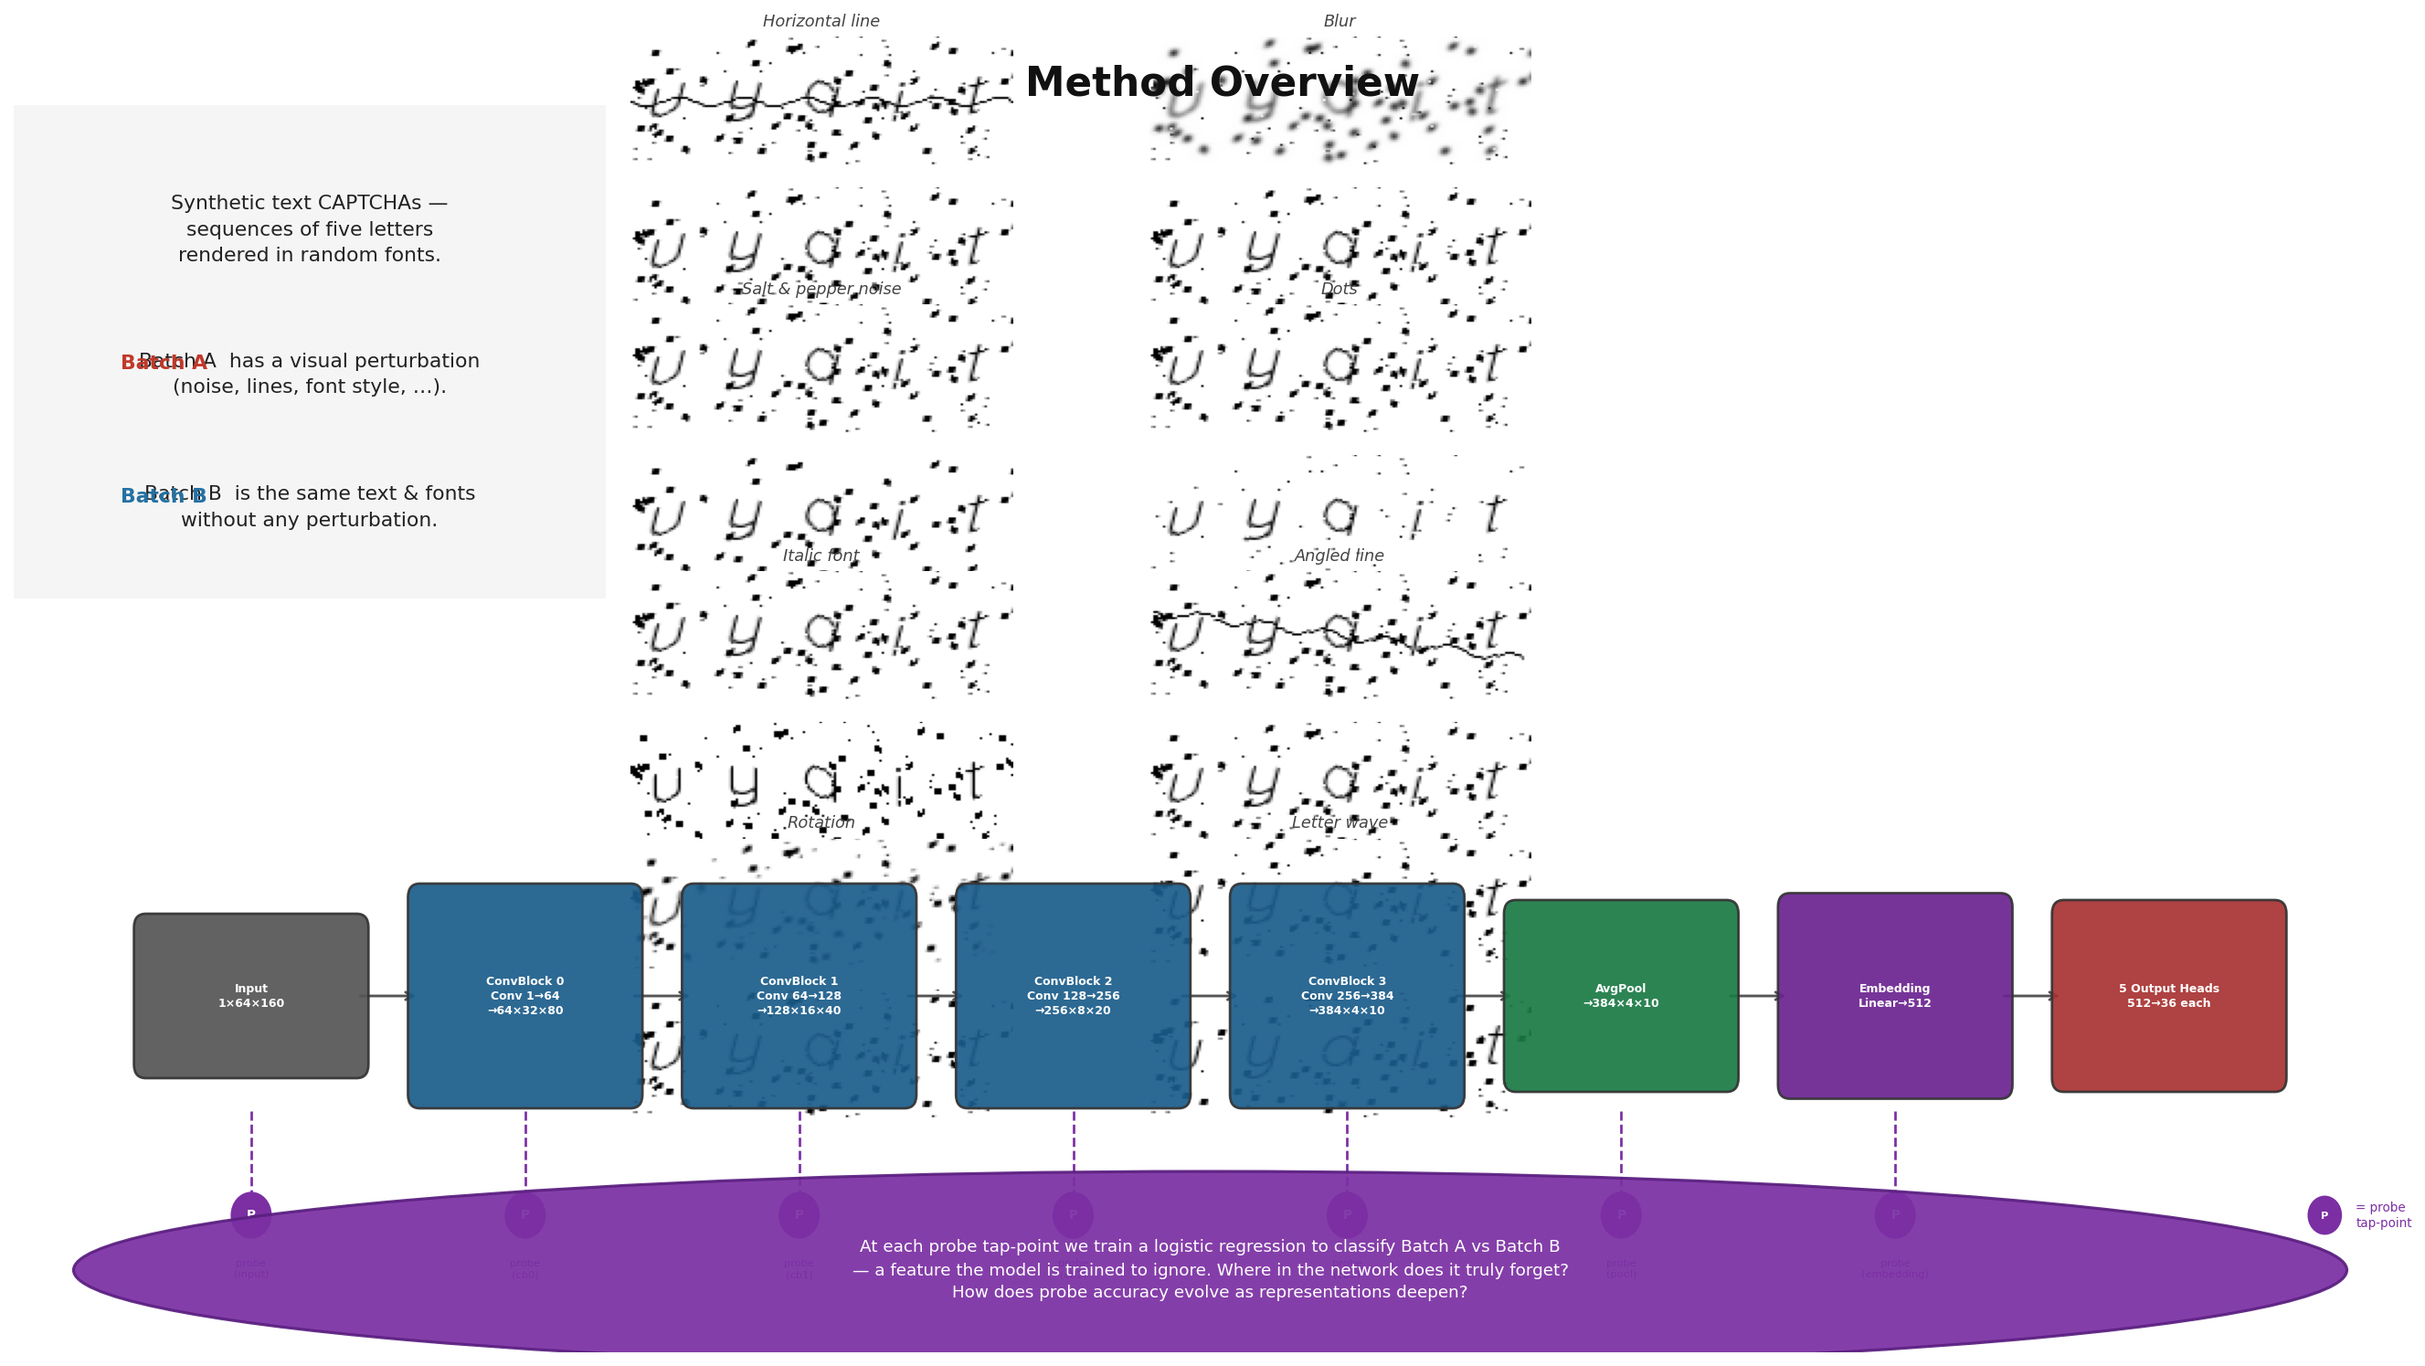
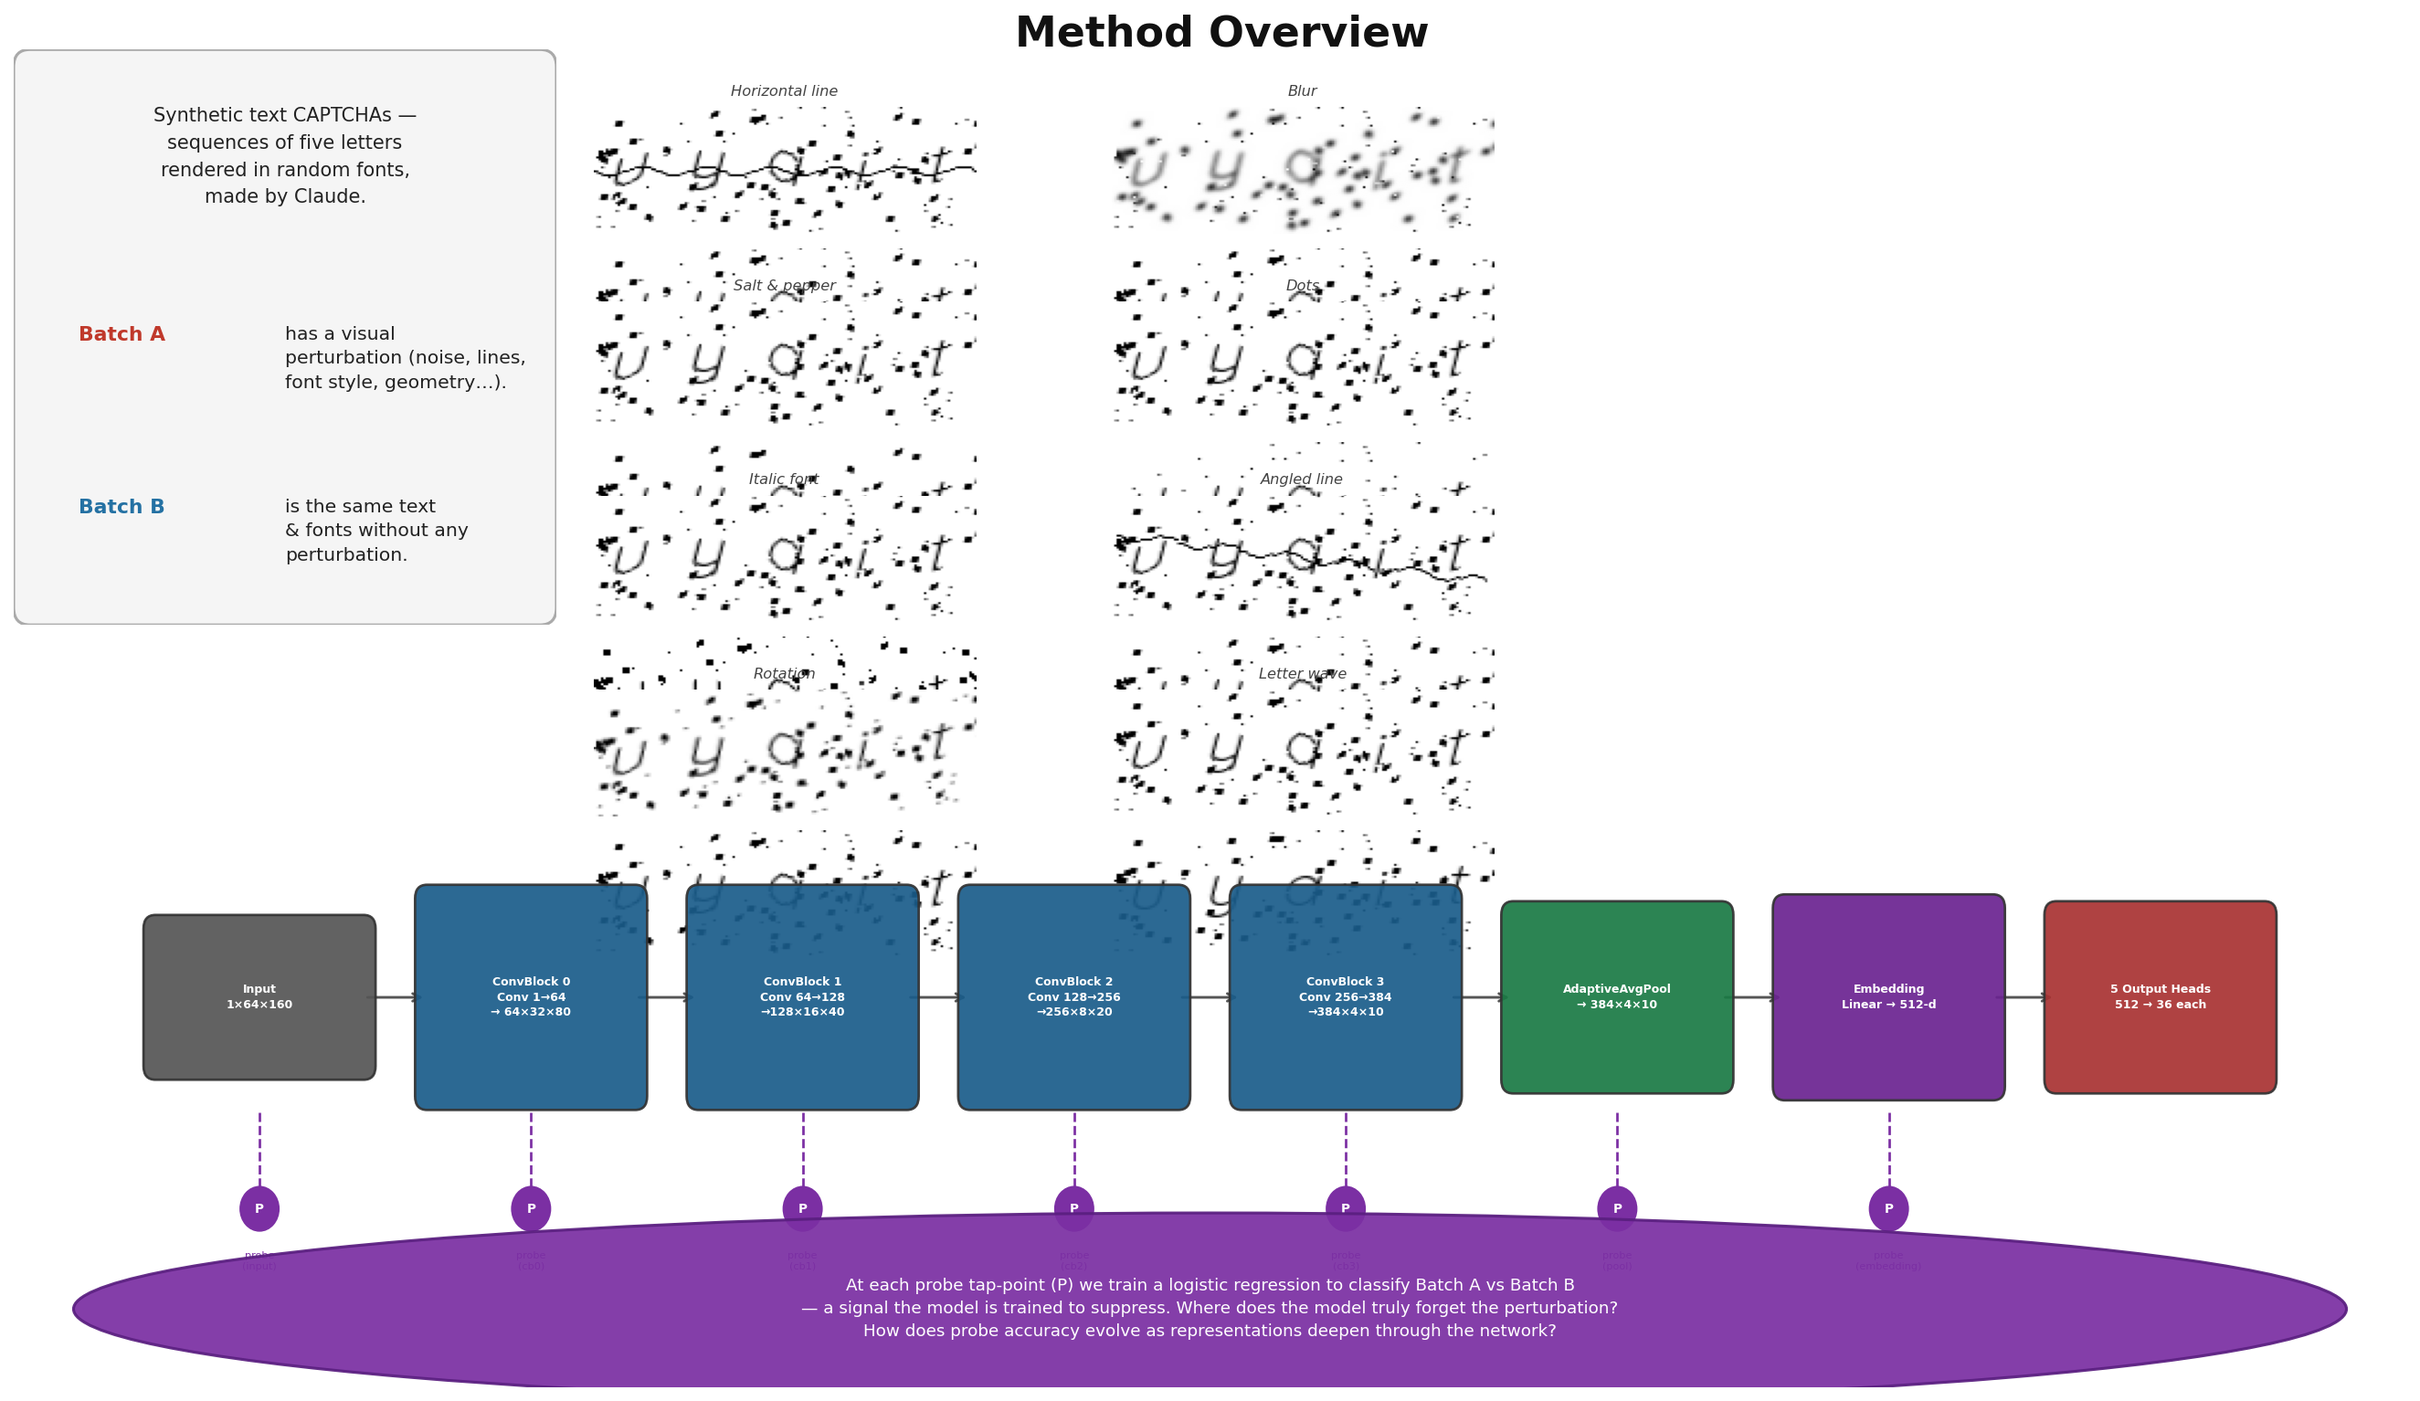
auto-commit

diff --git a/probe/plot_overview.py b/probe/plot_overview.py
@@ -4,12 +4,37 @@ from __future__ import annotations
 from pathlib import Path
 
 
-def plot_method_overview(
-    data_dir: Path,
-    output_path: Path,
-) -> None:
+# Perturbation examples to display: (experiment_dir, display_label)
+_EXAMPLES = [
+    ("easy_line",   "Horizontal line"),
+    ("salt_pepper", "Salt & pepper"),
+    ("italic",      "Italic font"),
+    ("rotation",    "Rotation"),
+    ("blur",        "Blur"),
+    ("dots",        "Dots"),
+    ("hard_line",   "Angled line"),
+    ("wave",        "Letter wave"),
+]
+
+# CaptchaCNN pipeline definition
+_PIPELINE = [
+    # (key, hex-colour, label, box_height, has_probe)
+    ("input",        "#555555", "Input\n1×64×160",                       0.50, True),
+    ("conv_block_0", "#1a5c8a", "ConvBlock 0\nConv 1→64\n→ 64×32×80",   0.72, True),
+    ("conv_block_1", "#1a5c8a", "ConvBlock 1\nConv 64→128\n→128×16×40", 0.72, True),
+    ("conv_block_2", "#1a5c8a", "ConvBlock 2\nConv 128→256\n→256×8×20", 0.72, True),
+    ("conv_block_3", "#1a5c8a", "ConvBlock 3\nConv 256→384\n→384×4×10", 0.72, True),
+    ("pool",         "#1a7a44", "AdaptiveAvgPool\n→ 384×4×10",           0.60, True),
+    ("embedding",    "#6a2390", "Embedding\nLinear → 512-d",             0.65, True),
+    ("heads",        "#a83232", "5 Output Heads\n512 → 36 each",         0.60, False),
+]
+
+PROBE_COL = "#7b2fa3"
+
+
+def plot_method_overview(data_dir: Path, output_path: Path) -> None:
     import matplotlib.pyplot as plt
-    from matplotlib.patches import FancyBboxPatch, Ellipse, FancyArrowPatch
+    from matplotlib.patches import FancyBboxPatch, Ellipse
     from matplotlib.image import imread
 
     fig = plt.figure(figsize=(18, 10.5), facecolor="white")
@@ -19,140 +44,124 @@ def plot_method_overview(
              fontsize=22, fontweight="bold", color="#111")
 
     # ══════════════════════════════════════════════════════════════════════════
-    # TOP-LEFT: concept text box
+    # LEFT: concept text box
     # ══════════════════════════════════════════════════════════════════════════
-    ax_txt = fig.add_axes([0.01, 0.56, 0.22, 0.40])
+    # occupies [0.01, 0.47, 0.20, 0.50]
+    ax_txt = fig.add_axes([0.01, 0.47, 0.20, 0.50])
     ax_txt.set_xlim(0, 1); ax_txt.set_ylim(0, 1); ax_txt.axis("off")
     ax_txt.add_patch(FancyBboxPatch((0.03, 0.03), 0.94, 0.94,
-        boxstyle="round,pad=0.03", facecolor="#f5f5f5", edgecolor="#aaa", lw=1.5))
+        boxstyle="round,pad=0.03", facecolor="#f6f6f6", edgecolor="#bbb", lw=1.5))
 
-    ax_txt.text(0.5, 0.90,
+    # preamble
+    ax_txt.text(0.5, 0.94,
                 "Synthetic text CAPTCHAs —\n"
                 "sequences of five letters\n"
-                "rendered in random fonts,\n"
-                "made by Claude.",
-                ha="center", va="top", fontsize=10, color="#222", linespacing=1.6)
+                "in random fonts, made by Claude.",
+                ha="center", va="top", fontsize=10, color="#222", linespacing=1.6,
+                transform=ax_txt.transAxes)
 
-    # Batch A line (coloured label inline)
-    ax_txt.text(0.12, 0.52, "Batch A", ha="left", va="top",
-                fontsize=10.5, fontweight="bold", color="#c0392b")
-    ax_txt.text(0.50, 0.52,
-                "has a visual\nperturbation (noise, lines,\nfont style, geometry…).",
-                ha="left", va="top", fontsize=9.8, color="#222", linespacing=1.5)
+    # Batch A description
+    ax_txt.text(0.08, 0.57, "Batch A", ha="left", va="top", fontsize=10.5,
+                fontweight="bold", color="#c0392b", transform=ax_txt.transAxes)
+    ax_txt.text(0.08, 0.48,
+                "has a visual perturbation:\nnoise, crossing lines,\nfont style, geometry…",
+                ha="left", va="top", fontsize=9.5, color="#444", linespacing=1.5,
+                transform=ax_txt.transAxes)
 
-    # Batch B line
-    ax_txt.text(0.12, 0.22, "Batch B", ha="left", va="top",
-                fontsize=10.5, fontweight="bold", color="#2471a3")
-    ax_txt.text(0.50, 0.22,
-                "is the same text\n& fonts without any\nperturbation.",
-                ha="left", va="top", fontsize=9.8, color="#222", linespacing=1.5)
+    # divider
+    ax_txt.axhline(0.33, xmin=0.08, xmax=0.92, color="#ccc", lw=1.0)
+
+    # Batch B description
+    ax_txt.text(0.08, 0.30, "Batch B", ha="left", va="top", fontsize=10.5,
+                fontweight="bold", color="#2471a3", transform=ax_txt.transAxes)
+    ax_txt.text(0.08, 0.21,
+                "same letters & fonts,\nno perturbation.",
+                ha="left", va="top", fontsize=9.5, color="#444", linespacing=1.5,
+                transform=ax_txt.transAxes)
 
     # ══════════════════════════════════════════════════════════════════════════
-    # EXAMPLE PAIRS — two columns of 4 perturbation types
+    # EXAMPLE GRID: 4 cols × 2 rows (8 perturbation types)
+    # Layout in figure coords: left=0.225, right~=0.98
     # ══════════════════════════════════════════════════════════════════════════
-    COLUMNS = [
-        [
-            ("easy_line",   "Horizontal line"),
-            ("salt_pepper", "Salt & pepper"),
-            ("italic",      "Italic font"),
-            ("rotation",    "Rotation"),
-        ],
-        [
-            ("blur",      "Blur"),
-            ("dots",      "Dots"),
-            ("hard_line", "Angled line"),
-            ("wave",      "Letter wave"),
-        ],
-    ]
+    NCOLS     = 4
+    pair_w    = 0.155   # fig-width of one CAPTCHA thumbnail
+    pair_h    = 0.10    # fig-height of one CAPTCHA thumbnail
+    ab_gap    = 0.010   # gap between A and B within a pair
+    col_gap   = 0.030   # horizontal gap between columns
+    row_gap   = 0.030   # vertical gap between rows
+    grid_left = 0.225
+    grid_top  = 0.940   # top of first A image (row 0)
 
-    pair_w   = 0.155    # width of one CAPTCHA thumbnail
-    pair_h   = 0.088    # height of one thumbnail
-    pair_gap = 0.010    # gap between A and B
-    row_step = 0.135    # vertical step between rows
+    for idx, (exp, label) in enumerate(_EXAMPLES):
+        col = idx % NCOLS
+        row = idx // NCOLS
 
-    col_lefts = [0.245, 0.245 + pair_w + 0.055]  # left edges of the two columns
-    top_start = 0.920  # figure y of top of first A image
+        lft = grid_left + col * (pair_w + col_gap)
+        top_a = grid_top - row * (2 * pair_h + ab_gap + row_gap)
 
-    for col_idx, col_exps in enumerate(COLUMNS):
-        left = col_lefts[col_idx]
-        for row_idx, (exp, label) in enumerate(col_exps):
-            img_a_path = data_dir / exp / "batch_a" / "images" / "000000.png"
-            img_b_path = data_dir / exp / "batch_b" / "images" / "000000.png"
-            if not img_a_path.exists():
-                continue
+        img_a = data_dir / exp / "batch_a" / "images" / "000000.png"
+        img_b = data_dir / exp / "batch_b" / "images" / "000000.png"
+        if not img_a.exists():
+            continue
 
-            top_a = top_start - row_idx * row_step
+        # perturbation label
+        fig.text(lft + pair_w / 2, top_a + 0.007, label,
+                 ha="center", va="bottom", fontsize=8.0, style="italic", color="#444")
 
-            # Perturbation label
-            fig.text(left + pair_w / 2, top_a + 0.006, label,
-                     ha="center", va="bottom", fontsize=7.8, style="italic", color="#444")
-
-            # Batch A
-            ax_a = fig.add_axes([left, top_a - pair_h, pair_w, pair_h])
-            ax_a.imshow(imread(str(img_a_path)), cmap="gray", aspect="auto")
-            ax_a.axis("off")
-            for sp in ax_a.spines.values():
-                sp.set_visible(True); sp.set_color("#c0392b"); sp.set_linewidth(2.2)
-            ax_a.set_ylabel("A", color="#c0392b", fontsize=8, fontweight="bold",
+        # Batch A image
+        ax_a = fig.add_axes([lft, top_a - pair_h, pair_w, pair_h])
+        ax_a.imshow(imread(str(img_a)), cmap="gray", aspect="auto")
+        ax_a.axis("off")
+        for sp in ax_a.spines.values():
+            sp.set_visible(True); sp.set_color("#c0392b"); sp.set_linewidth(2.2)
+        if col == 0:
+            ax_a.set_ylabel("A", color="#c0392b", fontsize=8.5, fontweight="bold",
                             rotation=0, labelpad=3, va="center")
 
-            # Batch B
-            top_b = top_a - pair_h - pair_gap - pair_h
-            ax_b = fig.add_axes([left, top_b, pair_w, pair_h])
-            ax_b.imshow(imread(str(img_b_path)), cmap="gray", aspect="auto")
-            ax_b.axis("off")
-            for sp in ax_b.spines.values():
-                sp.set_visible(True); sp.set_color("#2471a3"); sp.set_linewidth(2.2)
-            ax_b.set_ylabel("B", color="#2471a3", fontsize=8, fontweight="bold",
+        # Batch B image
+        bot_b = top_a - pair_h - ab_gap - pair_h
+        ax_b = fig.add_axes([lft, bot_b, pair_w, pair_h])
+        ax_b.imshow(imread(str(img_b)), cmap="gray", aspect="auto")
+        ax_b.axis("off")
+        for sp in ax_b.spines.values():
+            sp.set_visible(True); sp.set_color("#2471a3"); sp.set_linewidth(2.2)
+        if col == 0:
+            ax_b.set_ylabel("B", color="#2471a3", fontsize=8.5, fontweight="bold",
                             rotation=0, labelpad=3, va="center")
 
     # ══════════════════════════════════════════════════════════════════════════
-    # ARCHITECTURE PIPELINE
+    # ARCHITECTURE PIPELINE  (bottom band)
     # ══════════════════════════════════════════════════════════════════════════
-    ax = fig.add_axes([0.01, 0.03, 0.97, 0.42])
+    ax = fig.add_axes([0.01, 0.03, 0.97, 0.40])
     ax.set_xlim(0, 10); ax.set_ylim(0, 2.2); ax.axis("off")
 
-    PROBE_COL = "#7b2fa3"
-
-    PIPELINE = [
-        # (key, colour, label, box_height, has_probe)
-        ("input",        "#555555", "Input\n1×64×160",                      0.50, True),
-        ("conv_block_0", "#1a5c8a", "ConvBlock 0\nConv 1→64\n→ 64×32×80",  0.72, True),
-        ("conv_block_1", "#1a5c8a", "ConvBlock 1\nConv 64→128\n→128×16×40", 0.72, True),
-        ("conv_block_2", "#1a5c8a", "ConvBlock 2\nConv 128→256\n→256×8×20", 0.72, True),
-        ("conv_block_3", "#1a5c8a", "ConvBlock 3\nConv 256→384\n→384×4×10", 0.72, True),
-        ("pool",         "#1a7a44", "AdaptiveAvgPool\n→ 384×4×10",          0.60, True),
-        ("embedding",    "#6a2390", "Embedding\nLinear → 512-d",            0.65, True),
-        ("heads",        "#a83232", "5 Output Heads\n512 → 36 each",        0.60, False),
-    ]
-
-    n = len(PIPELINE)
+    n = len(_PIPELINE)
     box_w = 0.87
-    gap   = 0.265
+    gap   = 0.27
     total = n * box_w + (n - 1) * gap
     x0    = (10 - total) / 2
     cy    = 1.42
+    max_h = max(h for *_, h, _ in _PIPELINE)
 
     xs = [x0 + i * (box_w + gap) for i in range(n)]
-    max_h = max(h for *_, h, _ in PIPELINE)
 
-    for i, (key, col, label, h, _probe) in enumerate(PIPELINE):
+    for i, (key, col, label, h, _) in enumerate(_PIPELINE):
         ax.add_patch(FancyBboxPatch((xs[i], cy - h/2), box_w, h,
             boxstyle="round,pad=0.05", facecolor=col, edgecolor="#333",
             lw=1.3, alpha=0.92, zorder=3))
         ax.text(xs[i] + box_w/2, cy, label, ha="center", va="center",
                 fontsize=6.0, color="white", fontweight="bold", zorder=4, linespacing=1.35)
 
-    # Arrows between blocks
+    # Arrows
     for i in range(n - 1):
         ax.annotate("", xy=(xs[i+1], cy), xytext=(xs[i] + box_w, cy),
                     arrowprops=dict(arrowstyle="->", color="#555", lw=1.4), zorder=2)
 
-    # Probe dots + drop-lines
+    # Probe dots
     probe_top = cy - max_h / 2 - 0.06
-    probe_dot = probe_top - 0.35
+    probe_dot = probe_top - 0.33
 
-    for i, (key, col, label, h, has_probe) in enumerate(PIPELINE):
+    for i, (key, col, label, h, has_probe) in enumerate(_PIPELINE):
         if not has_probe:
             continue
         tx = xs[i] + box_w / 2
@@ -163,12 +172,20 @@ def plot_method_overview(
                 fontsize=6.5, color="white", fontweight="bold", zorder=6)
         short = key.replace("conv_block_", "cb")
         ax.text(tx, probe_dot - 0.155, f"probe\n({short})",
-                ha="center", va="top", fontsize=5.4, color=PROBE_COL)
+                ha="center", va="top", fontsize=5.5, color=PROBE_COL)
+
+    # Legend
+    leg_x = xs[-1] + box_w + 0.12
+    ax.add_patch(plt.Circle((leg_x + 0.09, probe_dot), 0.068, color=PROBE_COL, zorder=5))
+    ax.text(leg_x + 0.09, probe_dot, "P", ha="center", va="center",
+            fontsize=5.5, color="white", fontweight="bold", zorder=6)
+    ax.text(leg_x + 0.23, probe_dot, "= probe\ntap-point",
+            ha="left", va="center", fontsize=6.5, color=PROBE_COL, linespacing=1.3)
 
     # Callout ellipse
-    ell_y = 0.285
-    ax.add_patch(Ellipse((5, ell_y), width=9.5, height=0.70,
-                         facecolor="#7b2fa3", edgecolor="#5a1f80", lw=1.5, alpha=0.93, zorder=7))
+    ell_y = 0.27
+    ax.add_patch(Ellipse((5, ell_y), width=9.5, height=0.66,
+                         facecolor=PROBE_COL, edgecolor="#5a1f80", lw=1.5, alpha=0.93, zorder=7))
     ax.text(5, ell_y,
             "At each probe tap-point (P) we train a logistic regression to classify Batch A vs Batch B\n"
             "— a signal the model is trained to suppress. Where does the model truly forget the perturbation?\n"
